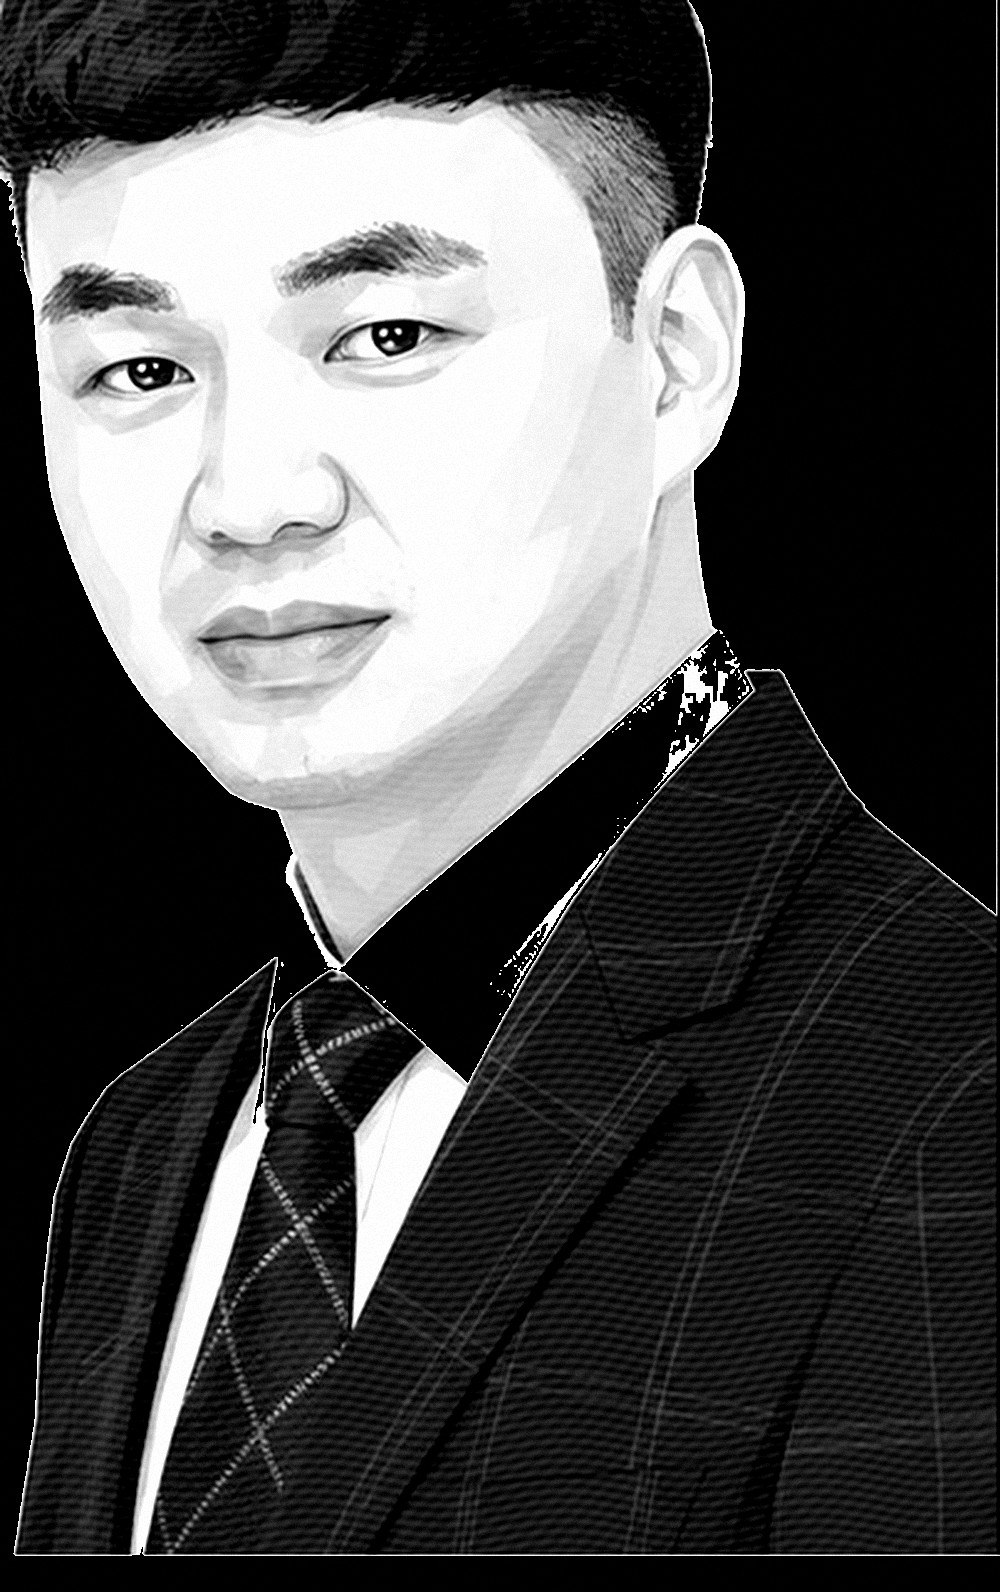
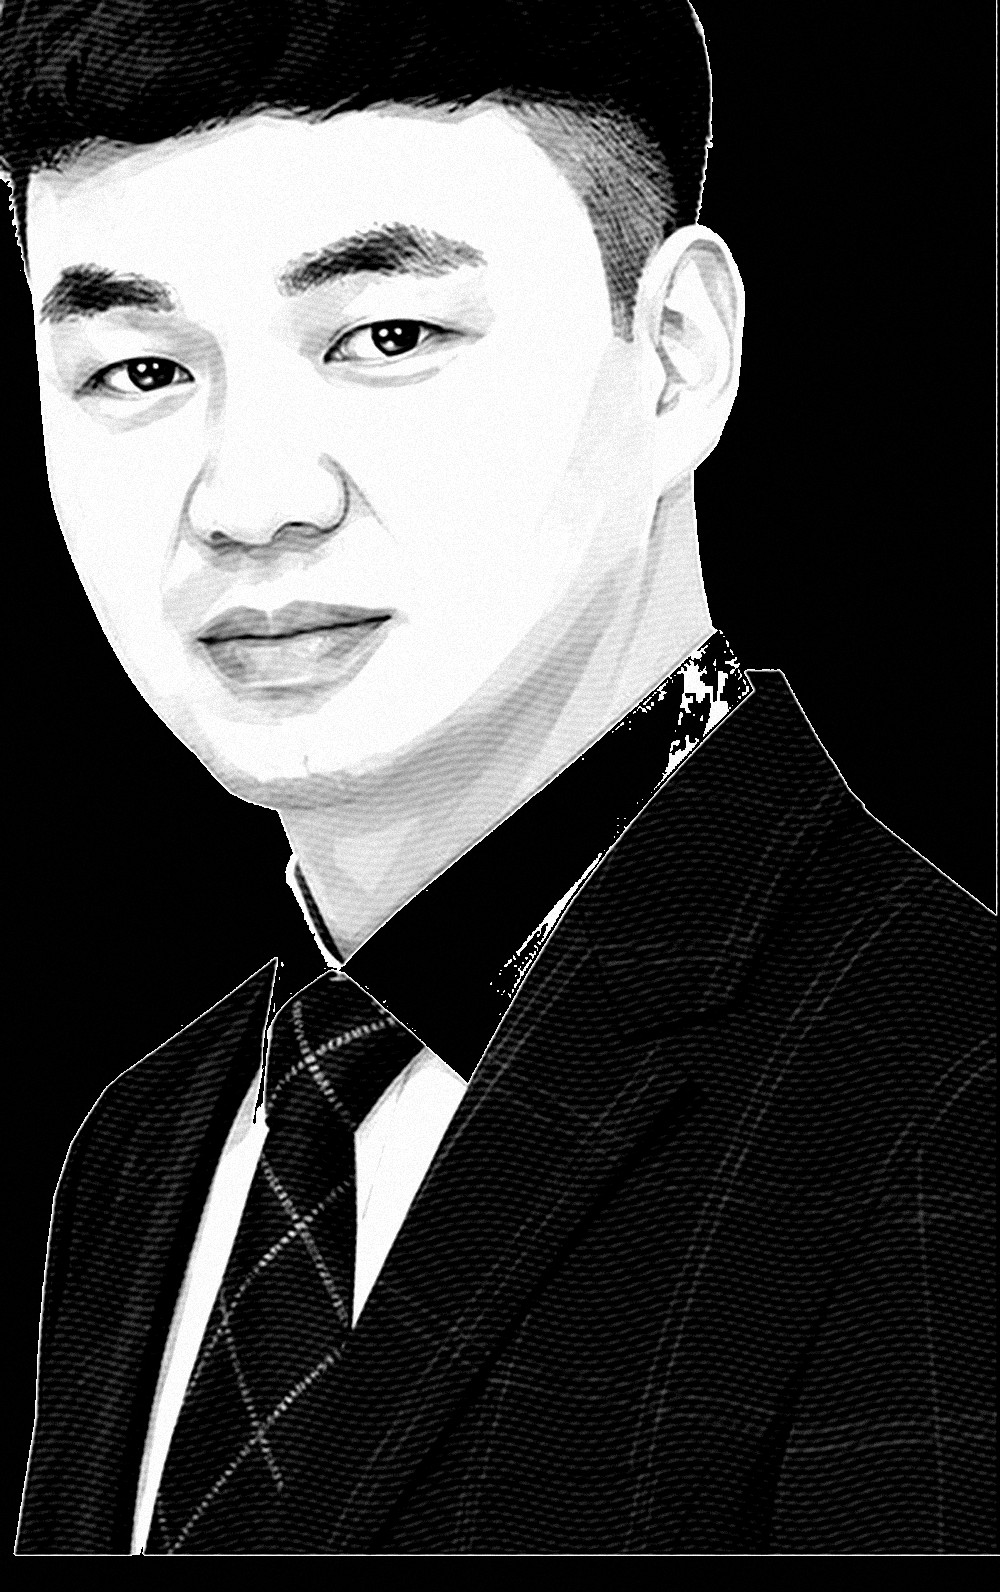
feat: 허스트 문구 답습 제거 — 물리치료 서사의 오리지널 카피(CAN YOU REHABILITATE A SYSTEM?)·INDEX 재작성, 판화 질감 강화, 스크롤 복원 manual 고정

diff --git a/src/data/content.js b/src/data/content.js
@@ -17,10 +17,10 @@ export const profile = {
 // intro(mm[0]) → 4개 그리드(HANDS/CODE/FIELD/STAGE) → INDEX 인트로 순.
 export const words = {
   intro: {
-    headline: 'HOW DID HE\nBECOME THE\nSYSTEM?',
+    headline: 'CAN YOU\nREHABILITATE\nA SYSTEM?',
     body: {
-      ko: '환자를 보던 임상가가 강단에 섰다. 그리고 채점·실습 기록·성과 관리·문서 같은 교육의 병목을 하나씩 소프트웨어로 풀기 시작했다. 이제 그의 결과물은 강의만이 아니라, 강의를 돌아가게 하는 시스템이다.',
-      en: 'A clinician who treated patients took the podium. Then, one by one, he began dissolving the bottlenecks of education — grading, practicum records, performance management, paperwork — into software. His output is no longer just the lecture, but the system that runs the lecture.',
+      ko: '환자의 몸을 재활시키던 물리치료사가, 이번에는 교육의 병목을 재활시키기 시작했다. 채점·실습 기록·성과 관리·문서 — 굳어 있던 흐름을 하나씩 소프트웨어로 풀어냈다. 몸이든 시스템이든, 치료의 원리는 같다: 막힌 곳을 찾아 움직이게 하는 것.',
+      en: 'A physical therapist who rehabilitated bodies began rehabilitating the bottlenecks of education — grading, practicum records, performance management, paperwork — loosening each stiffened workflow with software. Body or system, the principle of treatment is the same: find what is stuck, and make it move.',
     },
   },
   grid: [
@@ -64,8 +64,8 @@ export const words = {
   index: {
     word: 'INDEX',
     body: {
-      ko: '이제부터 우리는 이력서를 보지 않는다. 이력을 만든 활동 그래프를 본다. 시간 순으로 펼친 10년의 봉우리.',
-      en: 'From here on we no longer read the résumé. We read the activity graph that produced it. A decade of peaks, unrolled in time.',
+      ko: '경력을 줄글로 쓰는 대신 시간 위에 폈다. 봉우리마다 배포된 시스템과 강연이 있다 — 10년의 활동 그래프.',
+      en: 'Instead of a résumé in prose, the career is laid out on a timeline. At every peak, a shipped system or a lecture — a decade as an activity graph.',
     },
   },
 }

diff --git a/src/main.jsx b/src/main.jsx
@@ -3,6 +3,9 @@ import { createRoot } from 'react-dom/client'
 import App from './App.jsx'
 import './styles.css'
 
+// 스크롤리텔링 사이트 — 새로고침 시 브라우저 스크롤 복원 대신 항상 처음(프리로더)부터.
+if ('scrollRestoration' in history) history.scrollRestoration = 'manual'
+
 createRoot(document.getElementById('root')).render(
   <React.StrictMode>
     <App />

diff --git a/src/lib/useLenis.js b/src/lib/useLenis.js
@@ -13,6 +13,7 @@ export function useLenis() {
       easing: (t) => Math.min(1, 1.001 - Math.pow(2, -10 * t)),
     })
     lenisRef.current = lenis
+    window.__lenis = lenis
 
     let raf
     const loop = (time) => { lenis.raf(time); raf = requestAnimationFrame(loop) }